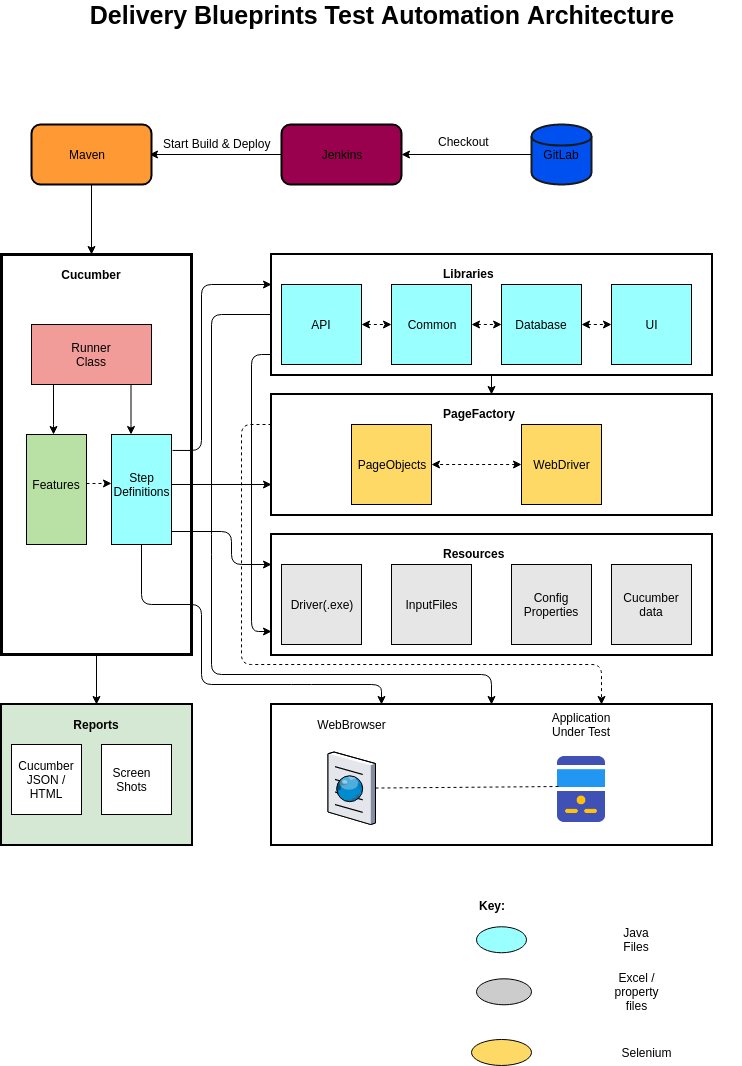
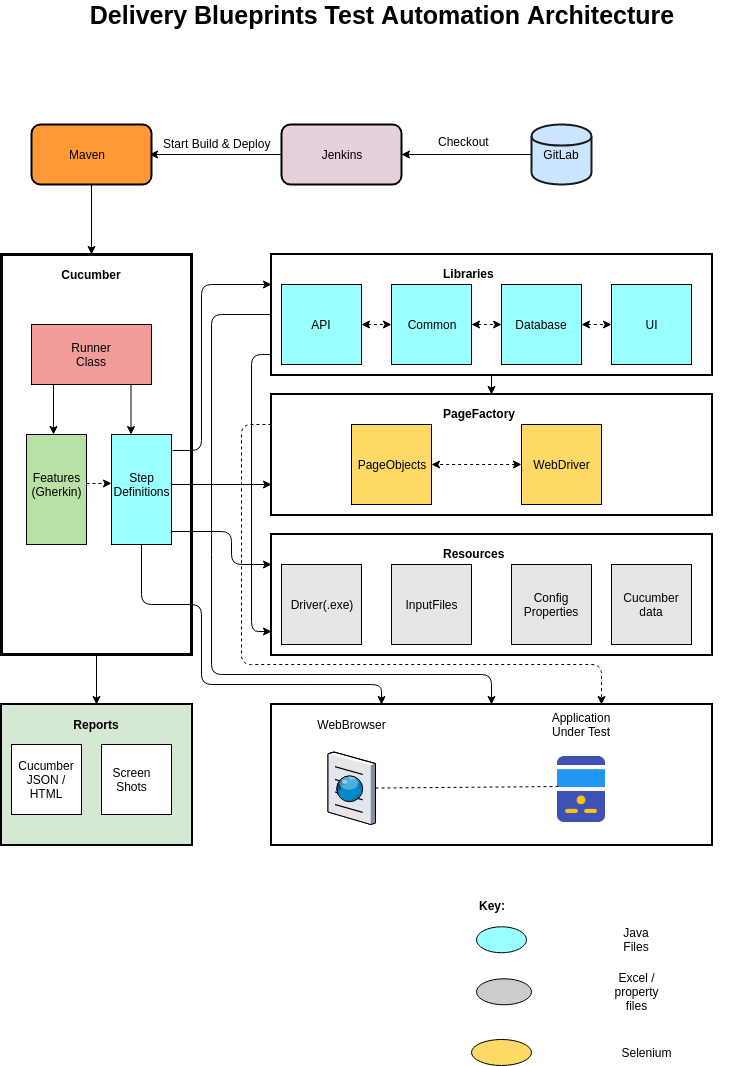
Minor changes to the architecture diagram in read me file.

Changed region(s): [[0.372, 0.0929, 0.558, 0.1857], [0.7129, 0.0929, 0.8059, 0.1857], [0.031, 0.4334, 0.124, 0.4644]]

diff --git a/src/test/executionReports/cucumber/DBAutomationHTMLReport/report.js b/src/test/executionReports/cucumber/DBAutomationHTMLReport/report.js
@@ -7,15 +7,15 @@ formatter.feature({
   "keyword": "Feature"
 });
 formatter.before({
-  "duration": 20880644,
+  "duration": 4897910,
   "status": "passed"
 });
 formatter.before({
-  "duration": 13861039,
+  "duration": 13048006,
   "status": "passed"
 });
 formatter.before({
-  "duration": 163492,
+  "duration": 342732,
   "status": "passed"
 });
 formatter.scenario({
@@ -33,7 +33,7 @@ formatter.step({
 });
 formatter.step({
   "line": 5,
-  "name": "I enter a valid existing email id and click search and create new button and I enter the below details and click the save button and search the added visitor",
+  "name": "I enter a valid new email id and click search and create new button and I enter the below details and click the save button and search the added visitor",
   "rows": [
     {
       "cells": [
@@ -148,40 +148,40 @@ formatter.match({
   "location": "AddAndSearchBrandNewVisitor.User_navigates_to_BNI_homepage()"
 });
 formatter.result({
-  "duration": 36736202697,
+  "duration": 36573101273,
   "status": "passed"
 });
 formatter.match({
   "location": "AddAndSearchBrandNewVisitor.When_I_enter_a_valid_existing_email_id_and_click_search_and_Add_button_and_I_enter_the_below_details_and_click_the_save_button_and_search_the_added_visitor(DataTable)"
 });
 formatter.result({
-  "duration": 175284310078,
+  "duration": 175331181371,
   "status": "passed"
 });
 formatter.match({
   "location": "AddAndSearchBrandNewVisitor.brand_new_visitor_details_saved_successfully()"
 });
 formatter.result({
-  "duration": 316191,
+  "duration": 362515,
   "status": "passed"
 });
 formatter.match({
   "location": "AddAndSearchBrandNewVisitor.sign_out_from_BNI()"
 });
 formatter.result({
-  "duration": 19019632664,
+  "duration": 18994428555,
   "status": "passed"
 });
 formatter.after({
-  "duration": 58148,
+  "duration": 55668,
   "status": "passed"
 });
 formatter.after({
-  "duration": 44717,
+  "duration": 32524,
   "status": "passed"
 });
 formatter.after({
-  "duration": 43298,
+  "duration": 33981,
   "status": "passed"
 });
 formatter.uri("addVisitorForExistingIndividual.feature");
@@ -193,15 +193,15 @@ formatter.feature({
   "keyword": "Feature"
 });
 formatter.before({
-  "duration": 112648,
+  "duration": 64072,
   "status": "passed"
 });
 formatter.before({
-  "duration": 236489,
+  "duration": 188236,
   "status": "passed"
 });
 formatter.before({
-  "duration": 96679,
+  "duration": 73206,
   "status": "passed"
 });
 formatter.scenario({
@@ -334,40 +334,40 @@ formatter.match({
   "location": "AddVisitorForExistingIndividual.user_logs_into_BNI_and_navigates_to_home_page()"
 });
 formatter.result({
-  "duration": 34492053226,
+  "duration": 35025795318,
   "status": "passed"
 });
 formatter.match({
-  "location": "AddVisitorForExistingIndividual.When_I_enter_a_valid_existing_email_id_and_click_search_and_Add_button_and_I_enter_the_below_details_and_click_the_save_button(DataTable)"
+  "location": "AddVisitorForExistingIndividual.I_enter_a_valid_existing_email_id_and_click_search_and_Add_button_and_I_enter_the_below_details_and_click_the_save_button(DataTable)"
 });
 formatter.result({
-  "duration": 125360687445,
+  "duration": 125866165066,
   "status": "passed"
 });
 formatter.match({
   "location": "AddVisitorForExistingIndividual.visitor_details_saved_successfully()"
 });
 formatter.result({
-  "duration": 255555,
+  "duration": 222814,
   "status": "passed"
 });
 formatter.match({
   "location": "AddVisitorForExistingIndividual.I_successfully_sign_out_from_BNI()"
 });
 formatter.result({
-  "duration": 19339493689,
+  "duration": 18955799425,
   "status": "passed"
 });
 formatter.after({
-  "duration": 34695,
+  "duration": 60972,
   "status": "passed"
 });
 formatter.after({
-  "duration": 16841,
+  "duration": 61234,
   "status": "passed"
 });
 formatter.after({
-  "duration": 61849,
+  "duration": 56913,
   "status": "passed"
 });
 formatter.uri("convertVisitorToMember.feature");
@@ -379,15 +379,15 @@ formatter.feature({
   "keyword": "Feature"
 });
 formatter.before({
-  "duration": 62056,
+  "duration": 60984,
   "status": "passed"
 });
 formatter.before({
-  "duration": 186946,
+  "duration": 178431,
   "status": "passed"
 });
 formatter.before({
-  "duration": 49652,
+  "duration": 42456,
   "status": "passed"
 });
 formatter.scenario({
@@ -521,33 +521,33 @@ formatter.match({
   "location": "ConvertVisitorToMember.I_am_on_the_Enter_New_Application_page()"
 });
 formatter.result({
-  "duration": 90188306383,
+  "duration": 92790693104,
   "status": "passed"
 });
 formatter.match({
   "location": "ConvertVisitorToMember.I_search_emailid_and_click_add_and_enter_the_below_details_and_click_save(DataTable)"
 });
 formatter.result({
-  "duration": 140214790051,
+  "duration": 165510384286,
   "status": "passed"
 });
 formatter.match({
   "location": "ConvertVisitorToMember.visitor_is_successfully_converted_to_a_member_and_I_signout_from_BNI()"
 });
 formatter.result({
-  "duration": 18875467117,
+  "duration": 19001524434,
   "status": "passed"
 });
 formatter.after({
-  "duration": 28403,
+  "duration": 55435,
   "status": "passed"
 });
 formatter.after({
-  "duration": 20619,
+  "duration": 48805,
   "status": "passed"
 });
 formatter.after({
-  "duration": 16468,
+  "duration": 48611,
   "status": "passed"
 });
 });

diff --git a/src/test/java/bni/regression/steps/endToEndIntegrationSteps/AddVisitorForExistingIndividual.java b/src/test/java/bni/regression/steps/endToEndIntegrationSteps/AddVisitorForExistingIndividual.java
@@ -54,7 +54,7 @@ public class AddVisitorForExistingIndividual {
     }
 
     @When("I enter a valid existing email id and click search and Add button and I enter the below details and click the save button")
-    public void When_I_enter_a_valid_existing_email_id_and_click_search_and_Add_button_and_I_enter_the_below_details_and_click_the_save_button(DataTable addPVVisitor) throws Exception{
+    public void I_enter_a_valid_existing_email_id_and_click_search_and_Add_button_and_I_enter_the_below_details_and_click_the_save_button(DataTable addPVVisitor) throws Exception{
         for (Map<String, String> data : addPVVisitor.asMaps(String.class, String.class)) {
             bniConnect = new BNIConnect(driver);
             bniConnect.selectItemFromManageVisitor("Add a Visitor");

diff --git a/src/test/java/bni/regression/steps/endToEndIntegrationSteps/AddAndSearchBrandNewVisitor.java b/src/test/java/bni/regression/steps/endToEndIntegrationSteps/AddAndSearchBrandNewVisitor.java
@@ -67,7 +67,7 @@ public class AddAndSearchBrandNewVisitor {
           TimeUnit.SECONDS.sleep(2);
     }
 
-    @When("I enter a valid existing email id and click search and create new button and I enter the below details and click the save button and search the added visitor")
+    @When("I enter a valid new email id and click search and create new button and I enter the below details and click the save button and search the added visitor")
     public void When_I_enter_a_valid_existing_email_id_and_click_search_and_Add_button_and_I_enter_the_below_details_and_click_the_save_button_and_search_the_added_visitor(DataTable addPVVisitor) throws Exception{
         Integer i =2;
         for (Map<String, String> data : addPVVisitor.asMaps(String.class, String.class)) {

diff --git a/readMe.md b/readMe.md
@@ -1,18 +1,22 @@
-### DB Regression Test Suite:
+# DB Regression Test Suite:
 
-## Set Up:
+### Set Up:
 Do the following steps to set up the code to run locally:
 
 1) Install Java 11 locally
 2) Install maven
-3) Clone the below git repository:
+3) Install Java IDE (Eclipse, IntelliJ)
+4) Install Cucumber, Maven plugin in IDE
+5) Clone the below git repository:
 https://github.com/sramkuma9/dbRegressionTestAutomationSuite.git
-4) Run a mvn clean install for the above cloned repo in turn. This will install them into your local maven repository.
+6) Run a mvn clean install for the above cloned repo in turn. This will install them into your local maven repository.
 
-## Running:
-From the command line after moving into the same directory as the pom.xml do
-mvn clean install
+### Input Data:
+1) Enter the input data for each feature in the feature file(from resources) 
+2) Enter the BNI login details in the config.properties(resources/properties)
 
-## Automation Framework Flow diagram: 
+### Running:
+Run the 'PriorityCases' class from the IDE.
+
 
 ![Screenshot](dBTestAutomationArchitecture.png)
